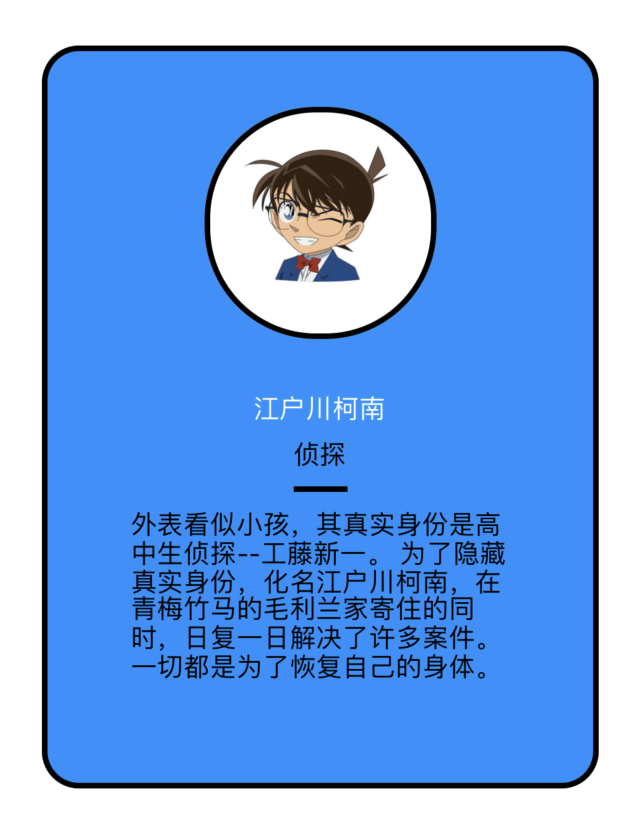
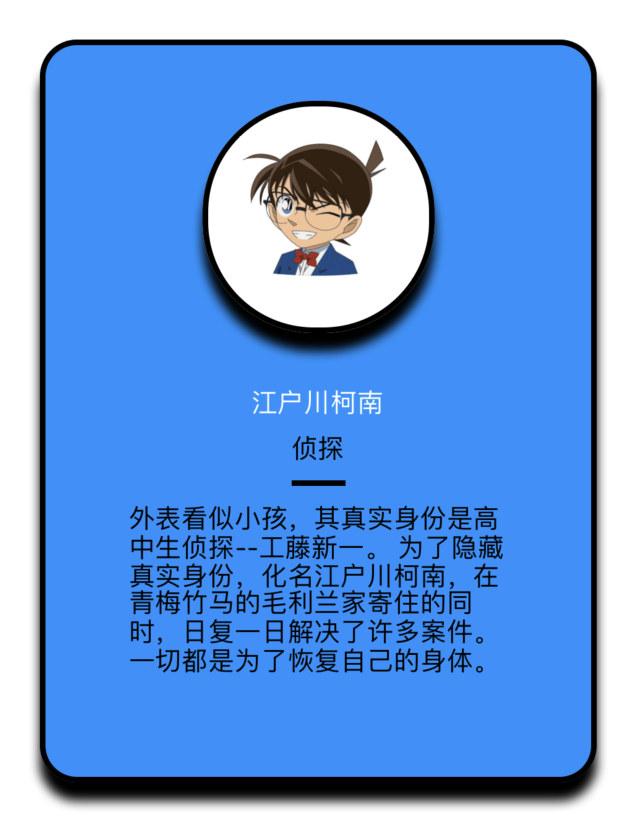
Add shadow effect for ProfileCard

Changed region(s): [[0.03, 0.0305, 0.959, 0.9756], [0.1798, 0.4573, 0.8091, 0.8232], [0.2997, 0.122, 0.7192, 0.4268]]

diff --git a/ReactNativeForFun/Demos/ProfileCard/App.js b/ReactNativeForFun/Demos/ProfileCard/App.js
@@ -1,5 +1,5 @@
 import React, { Component } from 'react';
-import { Image, StyleSheet, View, Text } from 'react-native';
+import { Image, StyleSheet, Platform, View, Text } from 'react-native';
 
 export default class App extends Component<{}> {
     render() {
@@ -51,7 +51,20 @@ const styles = StyleSheet.create({
         borderRadius: 20,
         backgroundColor: profileCardColor,
         width: 300,
-        height: 400
+        height: 400,
+        ...Platform.select({
+            ios: {
+                shadowColor: 'black',
+                shadowOffset: {
+                    height: 10
+                },
+                shadowOpacity: 1
+            },
+            android: {
+                elevation: 15
+            }
+        })
+
     },
     cardImageContainer: {
         alignItems: 'center',
@@ -63,6 +76,20 @@ const styles = StyleSheet.create({
         borderRadius: 60,
         marginTop: 30,
         paddingTop: 16,
+        ...Platform.select({
+            ios: {
+                shadowColor: 'black',
+                shadowOffset: {
+                    height: 10,
+                },
+                shadowOpacity: 1
+            },
+            android: {
+                borderWidth: 3,
+                borderColor: 'black',
+                elevation: 15
+            }
+        })
     },
     cardImage: {
         width: 85,
